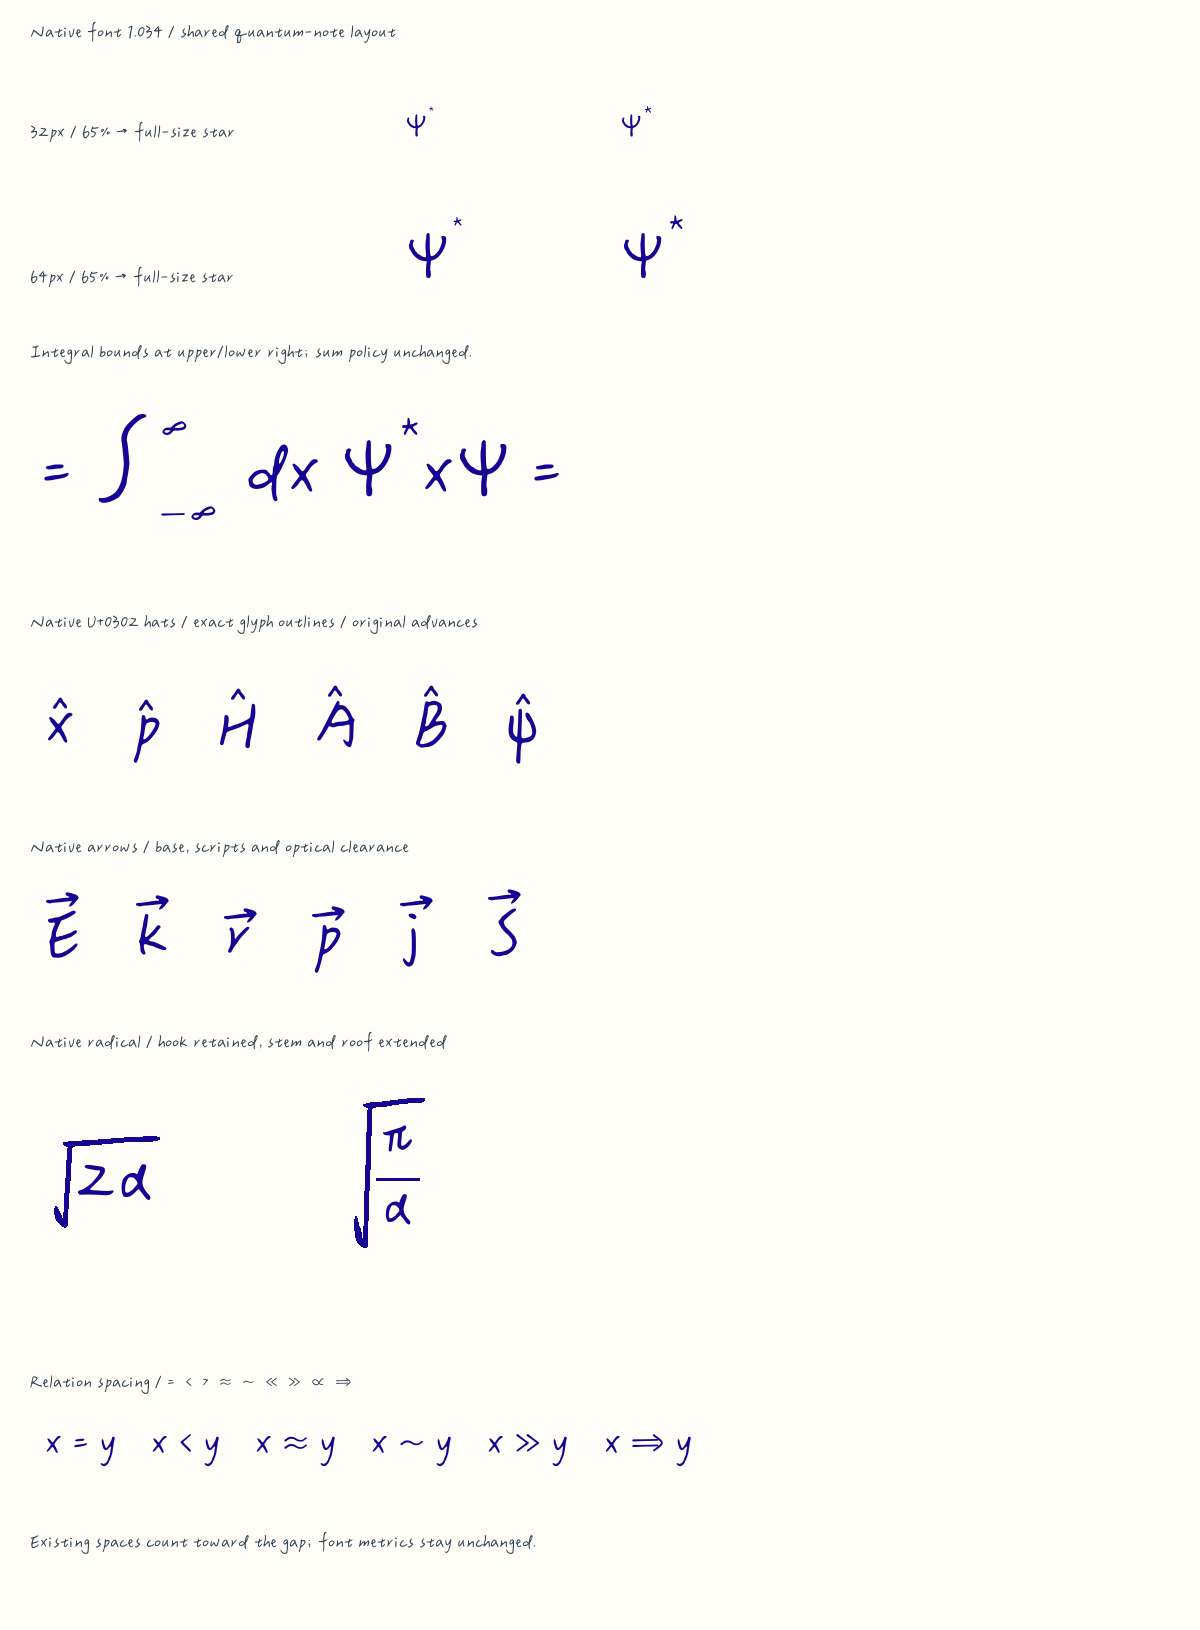
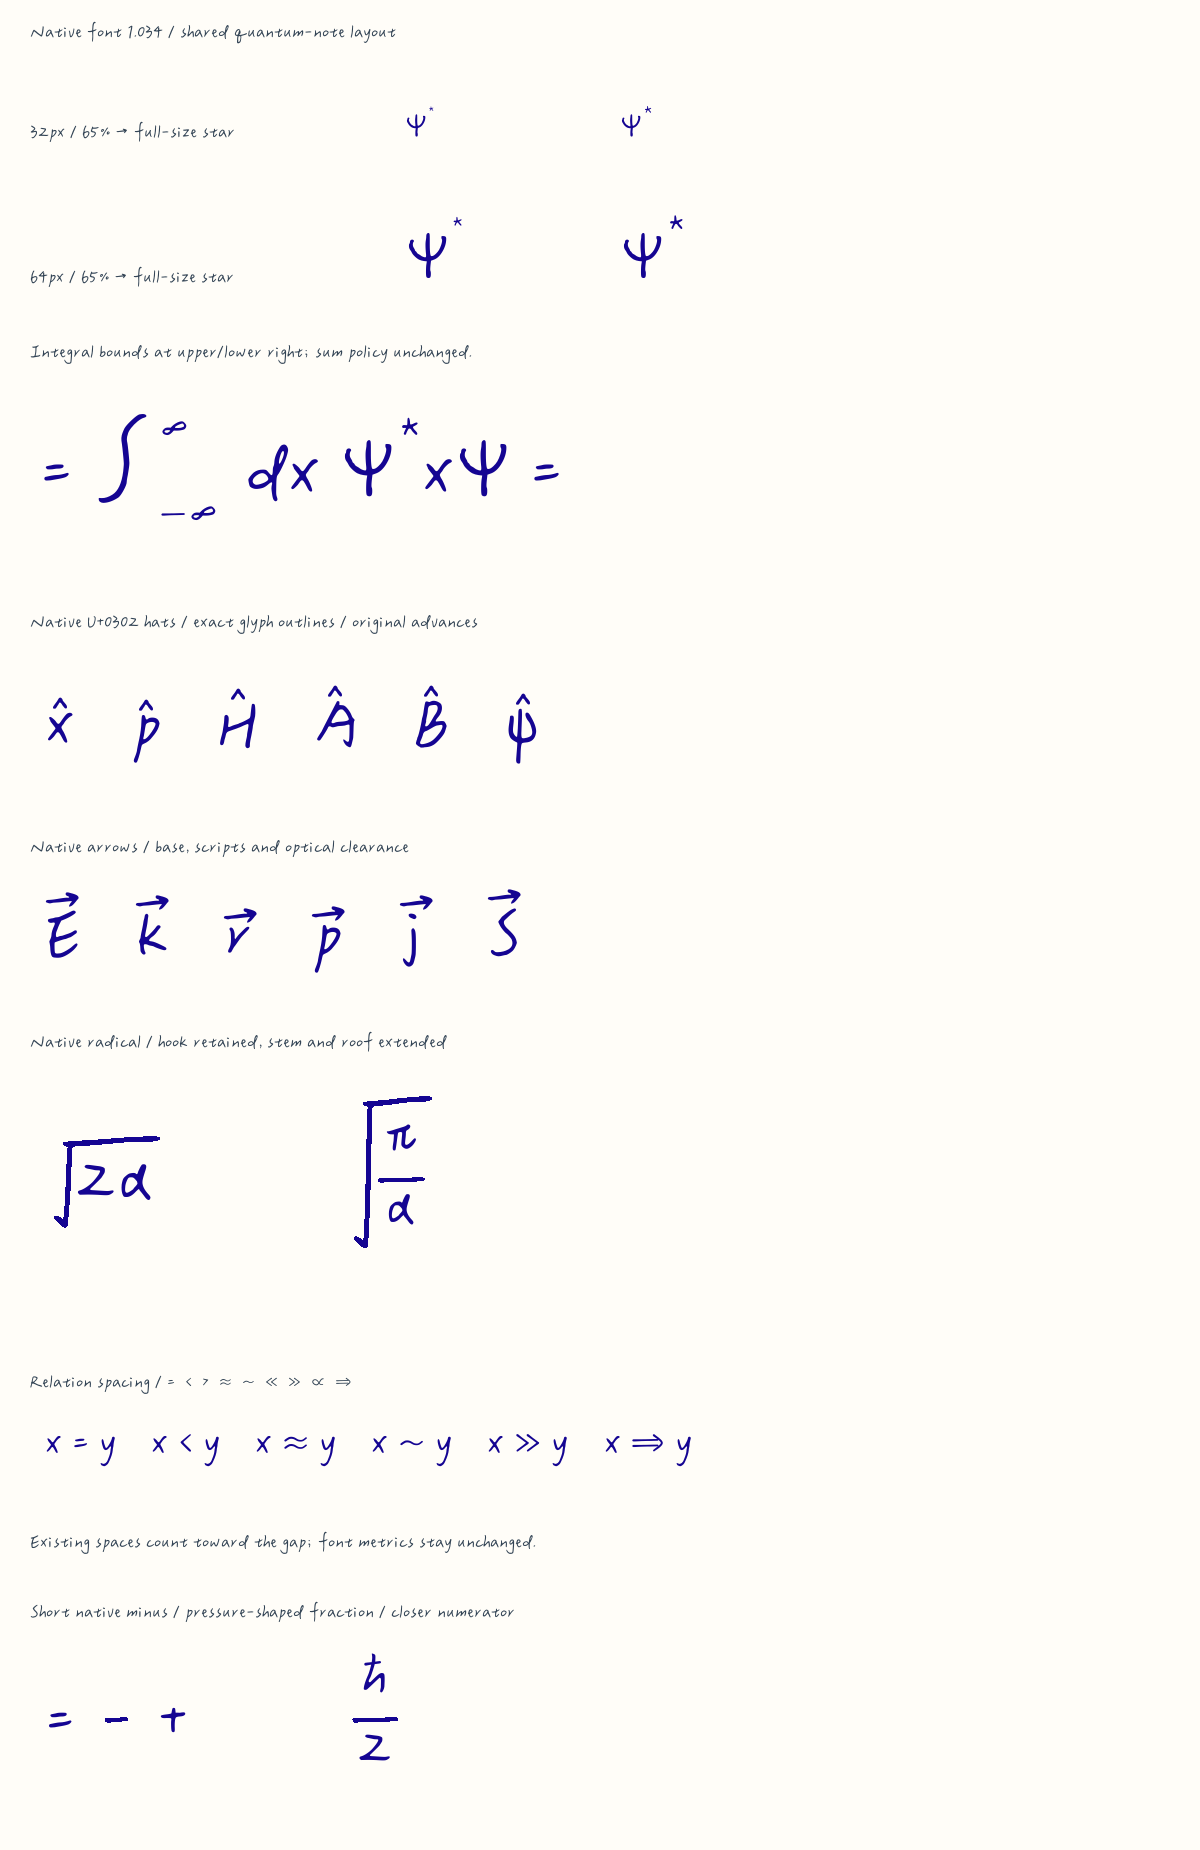
Refine native note rules, numerator spacing and radical hook

diff --git a/tools/font/note_math_layout.py b/tools/font/note_math_layout.py
@@ -138,20 +138,22 @@ class NoteMathLayout:
 
         Return canvas-coordinate outline commands, radicand X offset, and bounds.
         The split coordinates follow the 1.034 native contour: the hook below
-        y=208 and roof above y=449 translate rigidly; only the middle stem grows.
+        y=278 and roof above y=449 translate rigidly; only the middle stem grows.
         Roof points right of x=242 extend horizontally without scaling thickness.
         No glyph in the font is changed and the radicand remains at full size.
         """
         width, ascent, descent = radicand
         scale = self.scale(size)
         offset, gap, padding = 280 * scale, 48 * scale, 48 * scale
+        # The outer hook reaches y=252; start stretching above its full contour.
+        # A split at y=208 incorrectly lengthened its left tail on tall roots.
         extra = max(0, (ascent + descent + gap) / scale - (462 - 131))
         roof_right = max(516, (offset + width + padding) / scale)
         def point(pt):
             x, y = pt
             if x > 242:
                 x = 242 + (x - 242) * (roof_right - 242) / (516 - 242)
-            y += extra * max(0, min(1, (y - 208) / (449 - 208)))
+            y += extra * max(0, min(1, (y - 278) / (449 - 278)))
             return x * scale, descent - (y - 131) * scale
         native = RecordingPen()
         self.glyphs[self.cmap[ord('√')]].draw(native)
@@ -163,13 +165,48 @@ class NoteMathLayout:
         return outline, offset, (max(offset + width + padding, right),
                                  max(ascent, -top), max(descent, bottom))
 
+    def math_advance(self, character, size):
+        advance = self.font['hmtx'][self.cmap[ord(character)]][0]
+        if character == '−':
+            # Match the 247-unit native =/- ink length and +/= advance family.
+            advance -= 436 - 247
+        return advance * self.scale(size)
+
+    def rule_outline(self, width, size):
+        """Native minus stroke centered at canvas y=0, with fixed end caps.
+
+        Only the middle section changes length. Keep native thickness, subtle
+        slope and terminal shapes for both short minuses and fraction rules.
+        """
+        scale = self.scale(size)
+        native = RecordingPen()
+        self.glyphs[self.cmap[ord('−')]].draw(native)
+        target = width / scale
+        if target < 104:
+            raise ValueError('Rule too short to preserve native terminals')
+        def point(pt):
+            x, y = pt
+            if x <= 99:
+                x -= 45
+            elif x >= 431:
+                x = target - (481 - x)
+            else:
+                x = 54 + (x - 99) * (target - 104) / (431 - 99)
+            return x * scale, -(y - 328) * scale
+        return [(op, tuple(point(p) for p in pts)) for op, pts in native.value]
+
     def fraction_axis(self, size):
         return self.font['MATH'].table.MathConstants.AxisHeight.Value * (size * self.math_scale) / self.units
 
+    @staticmethod
+    def numerator_gap(size):
+        # Small optical gap; ordinary glyph metrics already reserve descender air.
+        return .06 * size
+
     def fraction_metrics(self, numerator, denominator, size):
         axis = self.fraction_axis(size)
-        return (max(numerator[0], denominator[0]) + 8,
-                axis + 3 + numerator[1] + numerator[2],
+        return (max(numerator[0], denominator[0]) + size * .20,
+                axis + self.numerator_gap(size) + numerator[1] + numerator[2],
                 max(0, 3 + denominator[1] + denominator[2] - axis))
 
     @staticmethod

diff --git a/tools/font/verify_note_math_layout.py b/tools/font/verify_note_math_layout.py
@@ -71,6 +71,16 @@ def verify():
                 # The lower hook retains its original scale even for tall fractions.
                 assert commands[0][1][0] == (167*layout.scale(size), content[2])
                 assert sum(op == 'qCurveTo' for op, _ in commands) > 20
+            # Tall radicands must not lengthen any part of the native lower hook.
+            from fontTools.pens.recordingPen import RecordingPen
+            native = RecordingPen(); layout.glyphs[layout.cmap[ord('√')]].draw(native)
+            for height in (.8, 2, 5):
+                commands, _, _ = layout.radical_geometry((size*2,size*height,size*.23),size)
+                for (op, points), (draw_op, drawn) in zip(native.value[:12], commands[:12]):
+                    assert op == draw_op
+                    for (nx,ny),(dx,dy) in zip(points,drawn):
+                        assert abs(dx-nx*layout.scale(size))<1e-9
+                        assert abs(dy-(size*.23-(ny-131)*layout.scale(size)))<1e-9
             for base in ('Ψ', 'ψ', 'φ', 'x'):
                 _, ascent, _ = metrics(base, size)
                 rise, top = layout.conjugate_geometry(ascent, size)
@@ -88,13 +98,24 @@ def verify():
                     assert x > right and uy < 0 < ly
                     assert width >= x + max(lo[0], hi[0])
                     assert -ascent <= uy - hi[1] and descent >= ly + lo[2]
+            from fontTools.pens.recordingPen import replayRecording
+            from fontTools.pens.boundsPen import BoundsPen
+            for rule_width in (247*layout.scale(size),size,4*size):
+                pen=BoundsPen(None); replayRecording(layout.rule_outline(rule_width,size),pen)
+                left,top,right,bottom=pen.bounds
+                assert abs(left)<1e-9 and abs(right-rule_width)<1e-9
+                assert abs(top+bottom)<1e-9 and abs(bottom-top-48*layout.scale(size))<1e-9
+                assert layout.numerator_gap(size)>bottom
+            minus=layout.math_advance('−',size)
+            equals=layout.math_advance('=',size)
+            assert abs(minus-equals)<2*layout.scale(size)
             axis = layout.fraction_axis(size)
             equals = layout.bounds('=')
             assert abs(axis - (equals[1] + equals[3]) / 2 * layout.scale(size)) < .05
             for top, bottom in (('dx', 'dt'), ('d⟨x⟩', 'dt'), ('Ψ', 'ρ')):
                 n, d = metrics(top, size * .85), metrics(bottom, size * .85)
                 _, ascent, descent = layout.fraction_metrics(n, d, size)
-                assert -axis - 3 - n[2] - n[1] >= -ascent - 1e-9
+                assert -axis - layout.numerator_gap(size) - n[2] - n[1] >= -ascent - 1e-9
                 assert -axis + 3 + d[1] + d[2] <= descent + 1e-9
     print('PASS: full-size conjugates, right-side integral limits, fraction axis and ink bounds; TTF/WOFF2 unchanged')
 

diff --git a/tools/font/render_note_math_proof.py b/tools/font/render_note_math_proof.py
@@ -16,7 +16,7 @@ def main():
     with tempfile.TemporaryDirectory() as temp:
         native=MathLayout(FONT,temp)
         layout=NoteMathLayout(native.font)
-        image=Image.new('RGB',(1200,1630),'#fffdf8');draw=ImageDraw.Draw(image)
+        image=Image.new('RGB',(1200,1850),'#fffdf8');draw=ImageDraw.Draw(image)
         label=ImageFont.truetype(str(FONT),25)
         def metrics(text,size):
             return layout.text_metrics(text,size,native.text(text).width*layout.scale(size))
@@ -77,8 +77,9 @@ def main():
         commands,off,_=layout.radical_geometry(content,size)
         replayRecording(commands,RasterOutline(None))
         axis=layout.fraction_axis(size);w=content[0]
-        draw.line((x+off+1,y-axis,x+off+w-1,y-axis),fill='#150592',width=3)
-        text(x+off+(w-numerator[0])/2,y-axis-3-numerator[2],'π',size*.85)
+        ox,oy=x,y;edge=size*.04;x+=off+edge;y-=axis
+        replayRecording(layout.rule_outline(w-2*edge,size),RasterOutline(None));x,y=ox,oy
+        text(x+off+(w-numerator[0])/2,y-axis-layout.numerator_gap(size)-numerator[2],'π',size*.85)
         text(x+off+(w-denominator[0])/2,y-axis+3+denominator[1],'α',size*.85)
         draw.text((30,1370),'Relation spacing / =  <  >  ≈  ∼  ≪  ≫  ∝  ⇒',font=label,fill='#345')
         x=45;y=1460;size=42
@@ -87,6 +88,20 @@ def main():
                 x+=left;x+=text(x,y,char,size);x+=right
             x+=35
         draw.text((30,1530),'Existing spaces count toward the gap; font metrics stay unchanged.',font=label,fill='#345')
+        draw.text((30,1600),'Short native minus / pressure-shaped fraction / closer numerator',font=label,fill='#345')
+        size=74;x=45;y=1750
+        x+=text(x,y,'=',size)+25
+        ox,oy=x,y;x+=45*layout.scale(size);y-=layout.fraction_axis(size)
+        replayRecording(layout.rule_outline(247*layout.scale(size),size),RasterOutline(None))
+        x,y=ox+layout.math_advance('−',size)+25,oy
+        text(x,y,'+',size)
+        x=350
+        numerator,denominator=metrics('ℏ',size*.85),metrics('2',size*.85)
+        w,_,_=layout.fraction_metrics(numerator,denominator,size);axis=layout.fraction_axis(size)
+        ox,oy=x,y;edge=size*.04;x+=edge;y-=axis
+        replayRecording(layout.rule_outline(w-2*edge,size),RasterOutline(None));x,y=ox,oy
+        text(x+(w-numerator[0])/2,y-axis-layout.numerator_gap(size)-numerator[2],'ℏ',size*.85)
+        text(x+(w-denominator[0])/2,y-axis+3+denominator[1],'2',size*.85)
         image.save(ROOT/'tools/font/proofs/quanfangwei-note-operators.png')
     print('PASS: shared module proof rendered from current native font')
 

diff --git a/tools/font/README.md b/tools/font/README.md
@@ -33,6 +33,14 @@ Call `relation_spacing(text, size)` only for equation text runs. It returns `(le
 
 Keep raw accent glyphs on an unpadded path, especially the U+2192 used above vectors. Ordinary prose and glyph metrics are unchanged. The notes renderer verifies drawing and measurement agree, preserves all 208 formula strings and their font sizes, and keeps six sheets without overflow.
 
+### Native rules and compact radical hook
+
+In equation text, use `math_advance(character, size)` for glyph advances: U+2212 has a renderer-specific 341-unit advance and 247-unit ink length, matching the native plus/equal family. Draw its `rule_outline(247 * scale, size)` at `x + 45 * scale` and `baseline - fraction_axis(size)`. The font cmap, stored glyph outline, and font metrics remain unchanged.
+
+Fractions replay `rule_outline(width, size)` as a **filled contour**, centered on the math axis. Its native terminals, 48-unit thickness and gentle slope are retained; only the middle section changes length. `fraction_metrics` now adds a total 0.20 × size of width padding. Draw the rule inset by 0.04 × size at each end, and put the numerator baseline at `axis_y - numerator_gap(size) - numerator_descent`. The 0.06 × size numerator gap lowers the numerator slightly; the denominator retains its established 3-unit clearance.
+
+The radical's stretch begins at native y=278, above the complete lower hook (which reaches y=252). Earlier y=208 interpolation pulled the left tail upward when a root enclosed a tall fraction. Regression checks retain every lower-hook control point at its native scale over multiple radicand heights.
+
 ## Current output: Version 1.034 — Math weight, operator hats and fraction axis
 
 All 45 P0–P3 symbols remain covered. The enlarged native derivatives `∑ ∇ ∏` now match the native thin stroke weight; only these three outlines/left bearings change from 1.033. The remaining 10,509 glyphs, every advance, and all Unicode mappings are unchanged. The existing U+0302 hat gains scoped positioning over 38 operator bases. A new OpenType MATH table aligns fraction rules with the native equals sign at y=330.
